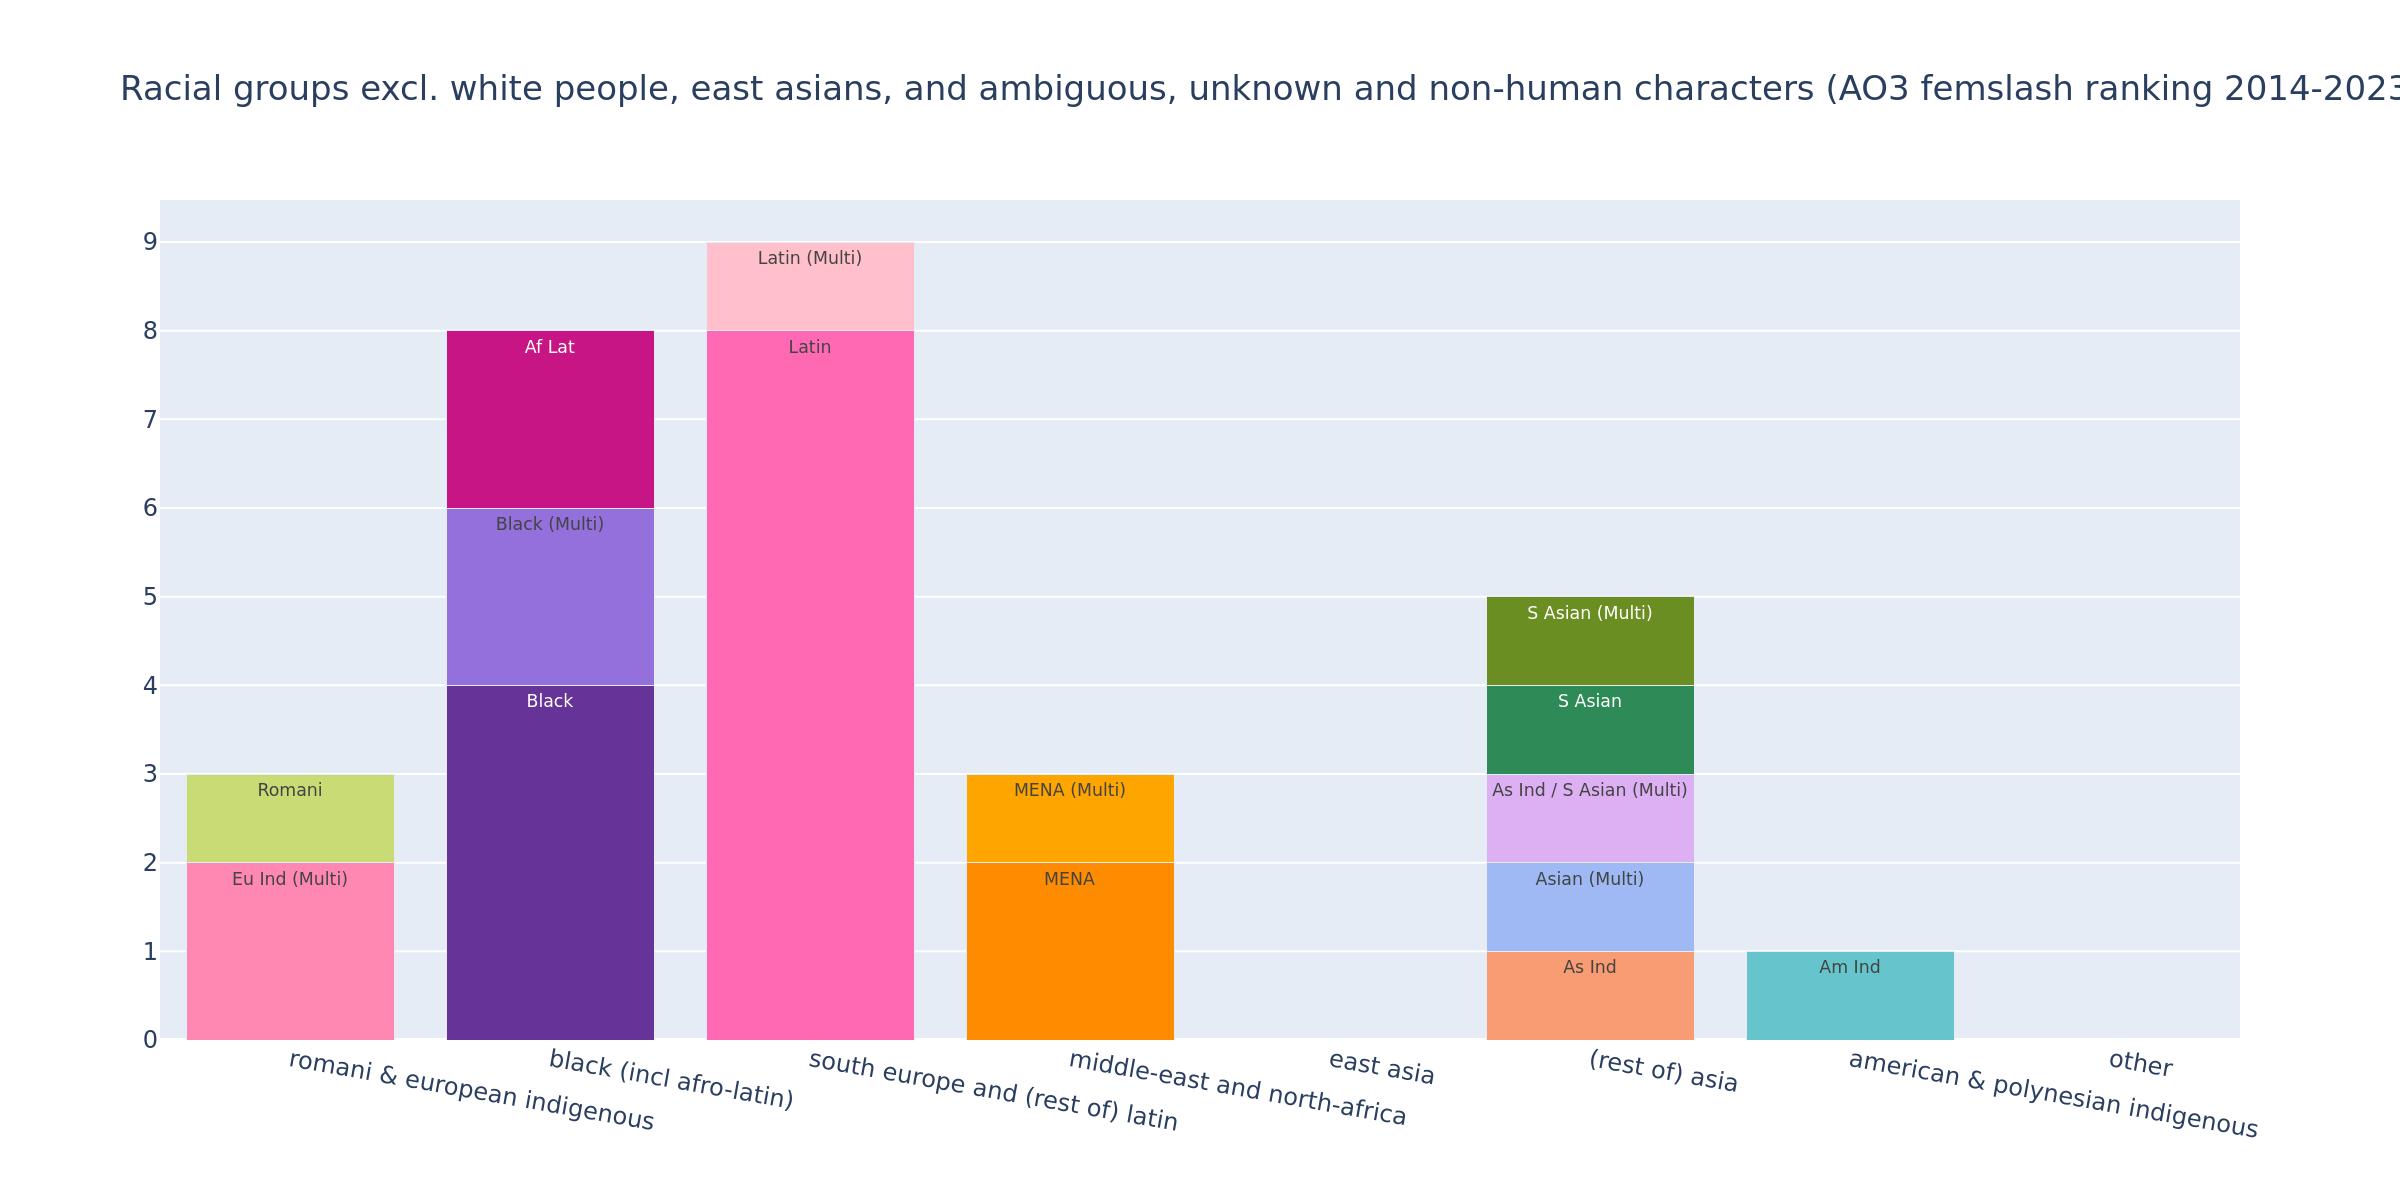
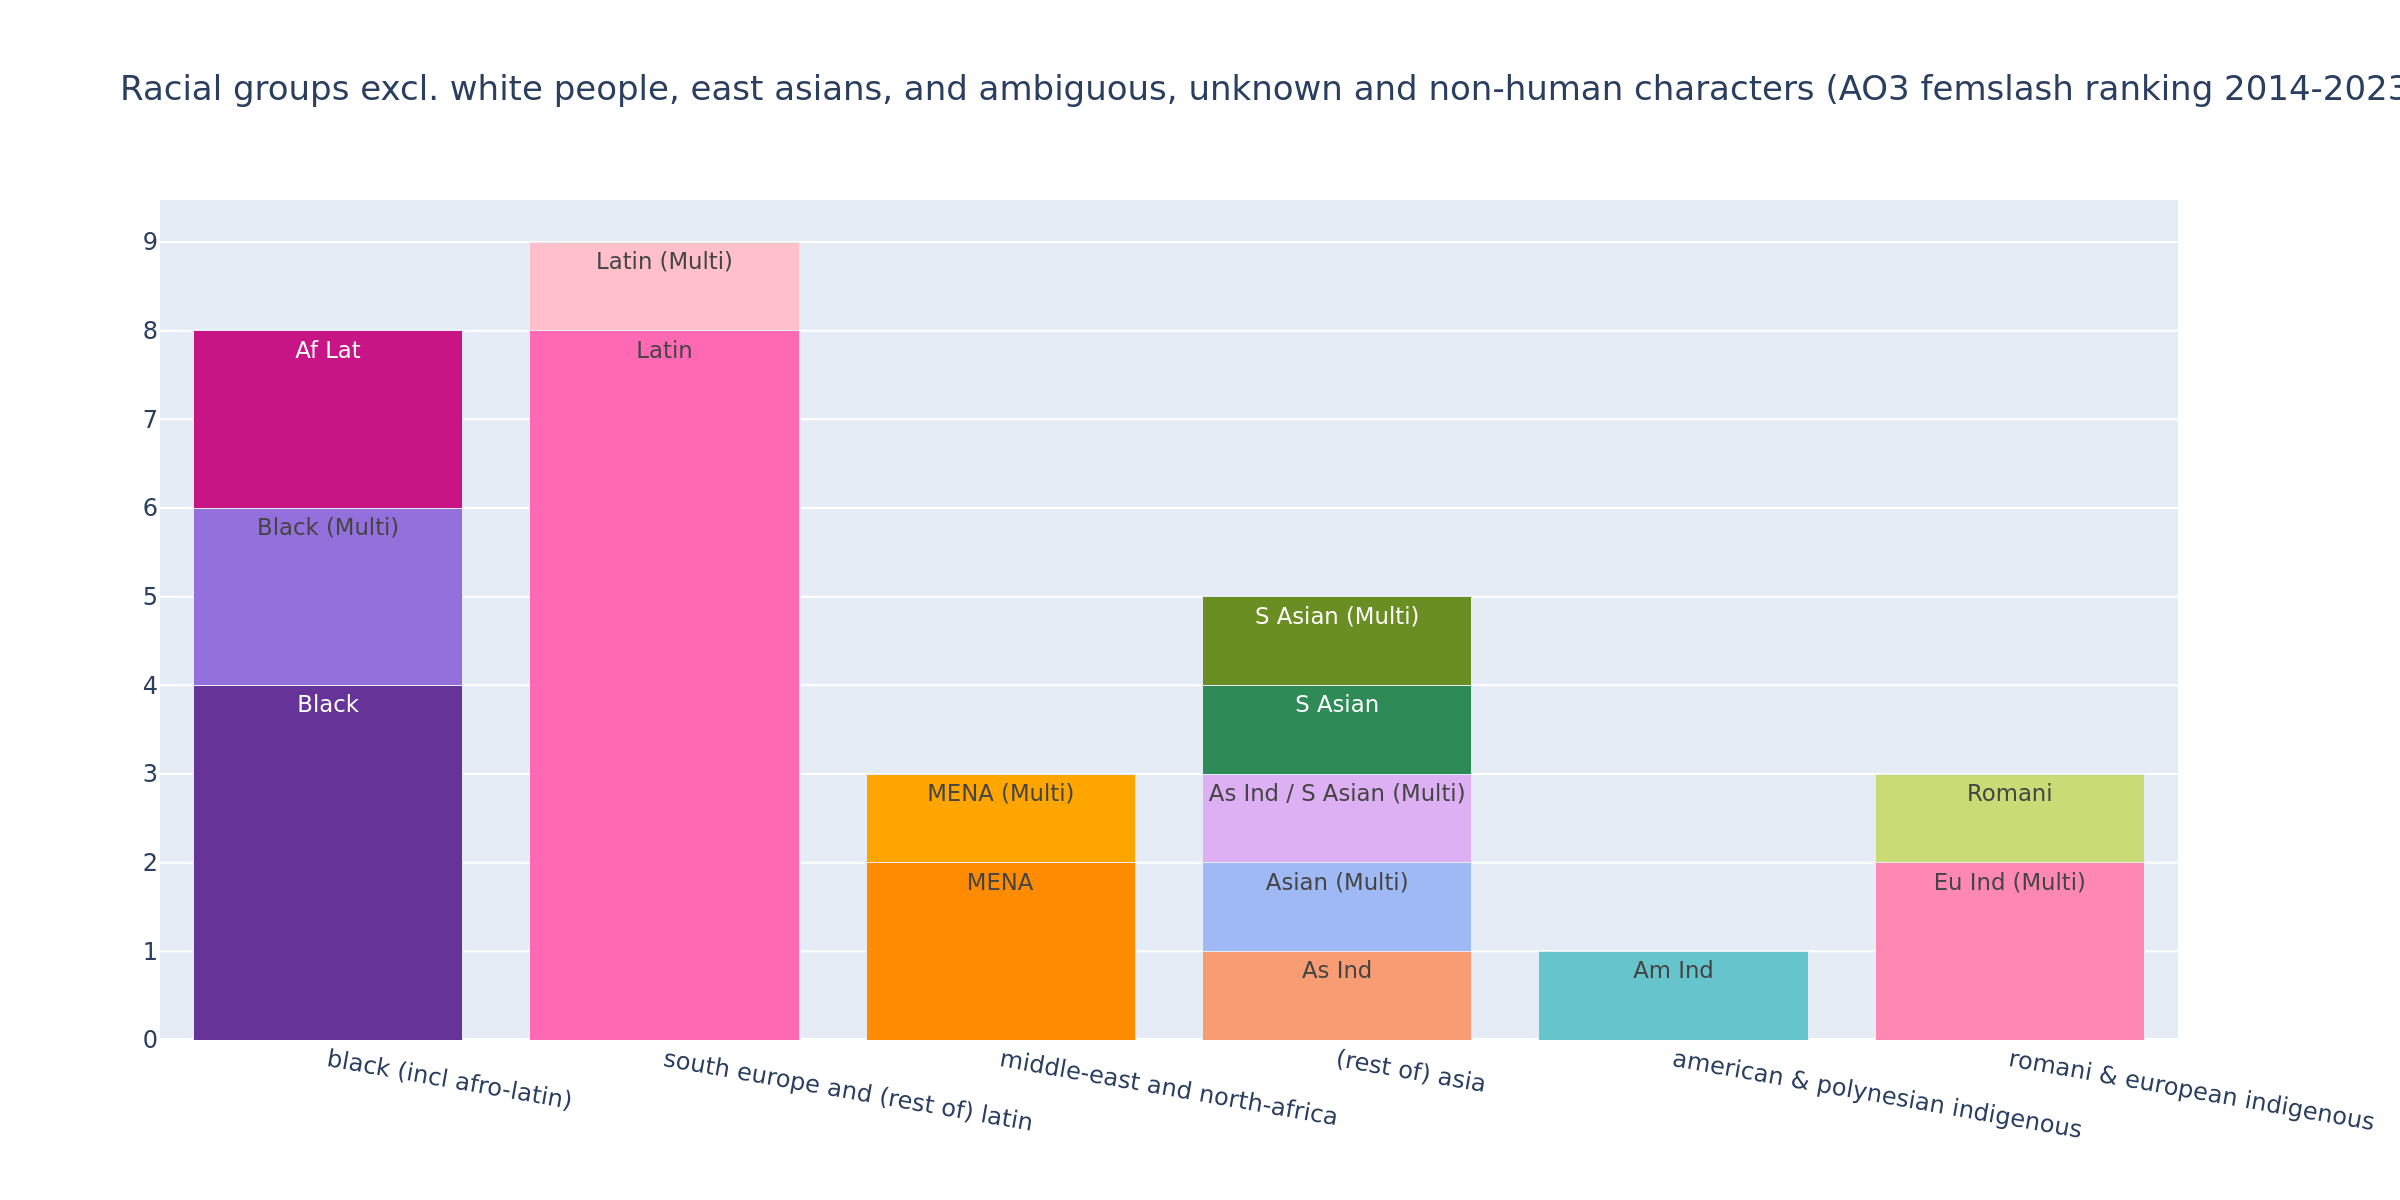
fix traces for minority racial groups bars including femslash versions

Changed region(s): [[0.0625, 0.1542, 1.0, 0.9558], [0.25, 0.925, 0.2812, 0.9558]]

diff --git a/visualisation/diagram_code/visualise_bars.py b/visualisation/diagram_code/visualise_bars.py
@@ -53,7 +53,7 @@ def visualise_non_white_counts(input_df:pd.DataFrame, ranking:str):
 
 
 # stacked bars
-def visualise_stacked_bars(input_df:pd.DataFrame, data_case:str, ranking:str):
+def visualise_stacked_bars(input_item:pd.DataFrame, data_case:str, ranking:str):
     """
     visualises output (ranking=(currently implemented:)"total") from 
     - all_characters_racial_groups_df (data_case="minority_racial_groups")
@@ -79,7 +79,7 @@ def visualise_stacked_bars(input_df:pd.DataFrame, data_case:str, ranking:str):
         x_ticks = 10
         text_position = "inside"
 
-        iterable_1 = input_df.index
+        iterable_1 = input_item.index
         iterable_2 = lbls.racial_group_umbrellas
 
         colour_lookup = make_colour_lookup_racial_groups()
@@ -133,12 +133,14 @@ def visualise_stacked_bars(input_df:pd.DataFrame, data_case:str, ranking:str):
                 # instance is umbrella group
                 # item is specific group
 
-                if item in iterable_2[instance] or type(input_df) == pd.Series or ranking == "femslash":
-                    if instance == "north, west, middle and eastern europe" \
-                    and item in ["Eu Ind", "Romani"]:
-                        stack_label = "romani & european indigenous"
-                    elif instance in ["east asia", "other", "north, west, middle and eastern europe"]:
-                        continue
+                if item in iterable_2[instance] \
+                or type(input_item) == pd.Series \
+                or ranking == "femslash":
+                    if instance in ["east asia", "other", "north, west, middle and eastern europe"]:
+                        if item not in ["Eu Ind (Multi)", "Romani"]:
+                            continue
+                        elif instance == "north, west, middle and eastern europe":
+                            stack_label = "romani & european indigenous"
                     else:
                         stack_label = instance
 
@@ -149,15 +151,15 @@ def visualise_stacked_bars(input_df:pd.DataFrame, data_case:str, ranking:str):
                     marker_color = colour_lookup[item]
 
                     # setting y
-                    if type(input_df) == pd.Series:
+                    if type(input_item) == pd.Series:
                         if item in iterable_2[instance]:
-                            value = input_df.loc[item]
+                            value = input_item.loc[item]
                             y = [value]
                         else:
                             y = [0]
                     elif ranking == "femslash" and item not in iterable_2[instance]:
                         y = [0]
-                    else: y = input_df.loc[item]
+                    else: y = input_item.loc[item]
 
                 else: continue # if the group is not in the umbrella group, we check the next one
             elif data_case in ["gender_combos", "minority_gender_combos"]:
@@ -185,7 +187,7 @@ def visualise_stacked_bars(input_df:pd.DataFrame, data_case:str, ranking:str):
                 else: text = instance
 
                 x = [item]
-                y = input_df.loc[instance]
+                y = input_item.loc[instance]
 
                 marker_color = colour
 
